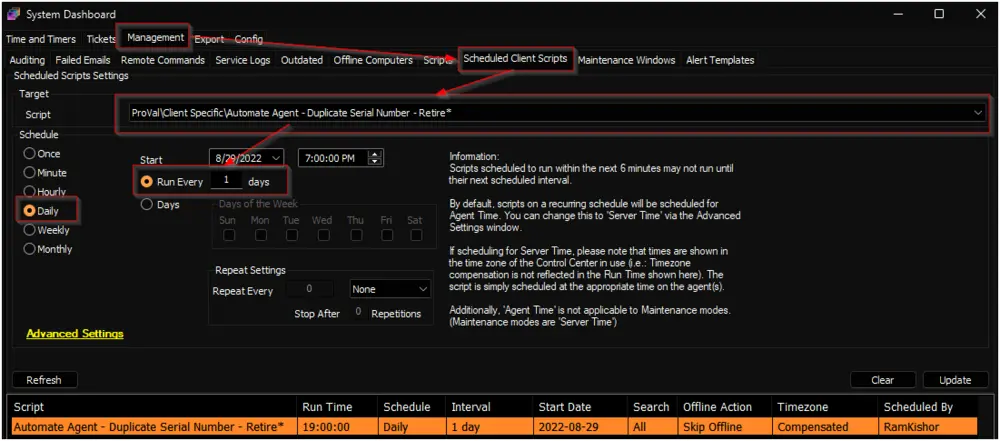
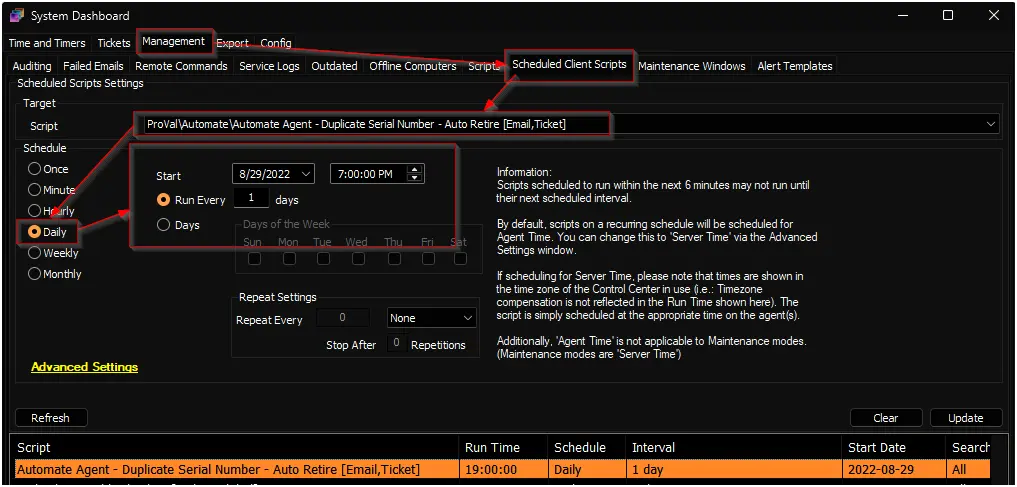
Duplicate Serial Number
- Automate Agent - Duplicate Serial Number - Retire --> Deleted (Was deprecated a long time ago)
	ID: 0282785b-f740-490a-8e5c-75e2de10088a
- Automate Agent - Duplicate Serial Number - Auto Retire [Email,Ticket] --> Updated
	ID: f9a0c7b8-2807-4e08-b1b7-c9342b89a493
- Automate Agent - Duplicate Serial Number - Audit Only [Email,Ticket] --> Updated
	ID: 44296eb1-9cdc-4833-ac40-7f390eac3a7f

diff --git a/docs/cwa/scripts/automate-agent-duplicate-serial-number-audit-only-email-ticket.md b/docs/cwa/scripts/automate-agent-duplicate-serial-number-audit-only-email-ticket.md
@@ -1,8 +1,8 @@
 ---
 id: '44296eb1-9cdc-4833-ac40-7f390eac3a7f'
 slug: /44296eb1-9cdc-4833-ac40-7f390eac3a7f
-title: 'Automate Agent - Duplicate Serial Number - Audit Only Email,Ticket'
-title_meta: 'Automate Agent - Duplicate Serial Number - Audit Only Email,Ticket'
+title: 'Automate Agent - Duplicate Serial Number - Audit Only [Email,Ticket]'
+title_meta: 'Automate Agent - Duplicate Serial Number - Audit Only [Email,Ticket]'
 keywords: ['automate', 'agent', 'duplicate', 'serial', 'audit', 'email', 'ticketing']
 description: 'This document provides a detailed overview of a script designed to audit duplicate agents in the Automate environment based on serial number, name, and client affiliation. It includes setup instructions, system properties, user parameters, and output details, ensuring effective management of duplicate agents.'
 tags: ['email']
@@ -12,9 +12,22 @@ unlisted: false
 
 ## Summary
 
-This document is a duplicate of the [CWM - Automate - Script - Automate Agent - Duplicate Serial Number - Retire](/docs/0282785b-f740-490a-8e5c-75e2de10088a) script. However, instead of retiring agents, it will audit the duplicate agents in the Automate environment. Duplicate agents will be identified based on serial number, name, and client affiliation.
+This document is a duplicate of the [Automate Agent - Duplicate Serial Number - Auto Retire [Email,Ticket]](/docs/f9a0c7b8-2807-4e08-b1b7-c9342b89a493) script. However, instead of retiring agents, it will audit the duplicate agents in the Automate environment. Duplicate agents will be identified based on serial number, name, and client affiliation.
 
 This is a client script and will work only for physical machines. Virtual machines are excluded to prevent any accidental deletion. It can be set up to email the results to any email address, or a ticket can also be generated with the list of duplicate agents.
+
+## Update Notice: 27 December 2024
+
+Introduced the following system properties:
+
+- `_sysDuplicateAgent_Contact_Threshold`
+- `_sysDuplicateAgent_Retire_VM`
+
+Run the script with the `Set_Environment` parameter to import the newly introduced properties.
+
+![Update Notice Image](../../../static/img/docs/f9a0c7b8-2807-4e08-b1b7-c9342b89a493/image_1.webp)
+
+Remove the `Automate Agent - Duplicate Serial Number - Retire` script if it exists.
 
 ## Sample Run
 
@@ -26,6 +39,12 @@ Specify the email address where you would like to receive the output of the resu
 
 ![Sample Run Image 2](../../../static/img/docs/44296eb1-9cdc-4833-ac40-7f390eac3a7f/image_2.webp)
 
+## Schedule
+
+It is suggested to run the script once per schedule.
+
+![Schedule Image](../../../static/img/docs/44296eb1-9cdc-4833-ac40-7f390eac3a7f/image_4.webp)
+
 ## System Properties
 
 | Name                                           | Required | Example                                       | Description                                                                                                                                                                                                                                                                                  |
@@ -35,6 +54,8 @@ Specify the email address where you would like to receive the output of the resu
 | `_sysDuplicateAgentTicketCategory`             | False    | 234                                           | Mention the ticket creation category to direct the tickets to the right board in Manage. **Note:** If no ticket creation category is mentioned in this property, the script will use the universal ticket creation category mentioned in the global system property `MonitorTicketCategory`. |
 | `_sysDuplicateAgent_NoDuplicate_Ticketing`     | False    | 0                                             | Set its value to '1' to receive tickets/emails when there are no duplicate agents. The default value is '0', meaning by default, the script will not generate tickets/emails if no duplicate agents are found.                                                                               |
 | `_sysDuplicateAgent_Ticketing_DefaultClientid` | False    | 1                                             | Client ID of the client under which tickets should be generated. The default value is '1', meaning tickets will be generated under the client whose client ID is '1' in the environment.                                                                                                     |
+| `_sysDuplicateAgent_Contact_Threshold`        | False    | 15                               | Define the threshold for the number of days after which duplicate agents should be retired. If this system property is not specified, duplicate agents with a last contact time of more than an hour will be automatically removed. |
+| `_sysDuplicateAgent_Retire_VM`                | False    | 1                                | Fill it as '1'  to retire duplicate virtual machines as well(duplicates on the basis of serial number). If nothing is mentioned in this Property, script will not retire duplicate virtual machines.                                                          |
 
 ## User Parameters
 
@@ -55,7 +76,10 @@ Tickets will only be generated if the system property `_sysDuplicateAgentTicketi
 
 **Subject:** `Duplicate Agents Based on Serial Numbers`
 
-**Body:** `Please review the following duplicates. These are instances where multiple Automate agent IDs have the same serial number. This usually happens when a computer is re-imaged and the old agent is not retired first. Typically, any agent IDs with the oldest Last Contact dates can be retired, but these should be verified first.`
+**Body:**
+
+```PlainText
+Please review the following duplicates. These are instances where multiple Automate agent IDs have the same serial number. This usually happens when a computer is re-imaged and the old agent is not retired first. Typically, any agent IDs with the oldest Last Contact dates can be retired, but these should be verified first.
 
 Keeping this list clean prevents false positive alerts from generating from the old agent instance and frees up Automate agent licenses. If all of the older copies of the agents listed below are deemed safe for removal, you can run the script (ProVal Script - noted below) to retire them all at once. Please use the Audit Only version of the script first if you would like to see a report of what the automation would do first.
 
@@ -63,8 +87,9 @@ Script Name - Automate Agent - Duplicate Serial Number - Auto Retire [Email, Tic
 
 Duplicate Agents are listed below:
 
-`@DuplicateMachines@`
+@DuplicateMachines@
 
 In case there is no duplicate serial number:
 
-`No duplicate machines identified based on Serial Number.`
+No duplicate machines identified based on Serial Number.
+```

diff --git a/docs/cwa/scripts/automate-agent-duplicate-serial-number-auto-retire-email-ticket.md b/docs/cwa/scripts/automate-agent-duplicate-serial-number-auto-retire-email-ticket.md
@@ -1,8 +1,8 @@
 ---
 id: 'f9a0c7b8-2807-4e08-b1b7-c9342b89a493'
 slug: /f9a0c7b8-2807-4e08-b1b7-c9342b89a493
-title: 'Automate Agent - Duplicate Serial Number - Auto Retire Email,Ticket'
-title_meta: 'Automate Agent - Duplicate Serial Number - Auto Retire Email,Ticket'
+title: 'Automate Agent - Duplicate Serial Number - Auto Retire [Email,Ticket]'
+title_meta: 'Automate Agent - Duplicate Serial Number - Auto Retire [Email,Ticket]'
 keywords: ['duplicate', 'agents', 'automate', 'retire', 'email', 'ticketing']
 description: 'This document provides a comprehensive guide on retiring duplicate agents in the ConnectWise Automate environment. It explains how the script identifies duplicate agents based on their serial number, name, and client affiliation, and outlines the process for keeping only the most recent agent. Additionally, it covers the configuration options for email notifications and ticket generation for retired agents.'
 tags: ['email', 'ticketing', 'windows']
@@ -19,6 +19,7 @@ This is a client script and will work only for physical machines. Virtual machin
 ## Update Notice: 27 December 2024
 
 Introduced the following system properties:
+
 - `_sysDuplicateAgent_Contact_Threshold`
 - `_sysDuplicateAgent_Retire_VM`
 
@@ -75,8 +76,12 @@ Tickets will only be generated if the system property `_sysDuplicateAgentTicketi
 
 **Subject:** `List of Retired Duplicate Agents Based on Serial Numbers`
 
-**Body:** `"%ScriptName% ran on the machines and has retired the following duplicate agents:@Machines@"`
+**Body:**
+
+```PlainText
+"%ScriptName% ran on the machines and has retired the following duplicate agents:@Machines@"
 
 In case there are no duplicate serial numbers:
 
-`No duplicate machines identified based on serial number.`
+No duplicate machines identified based on serial number.
+```
